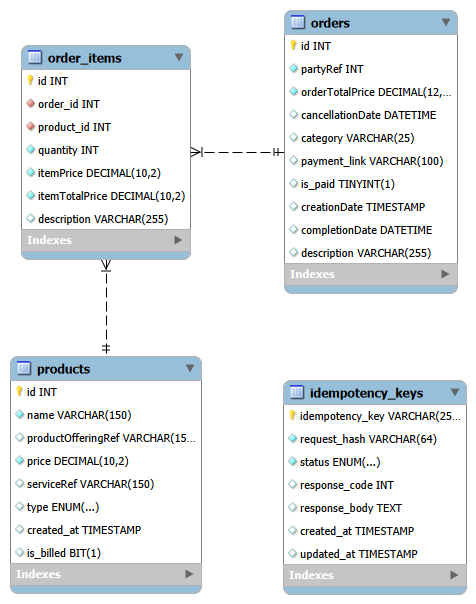
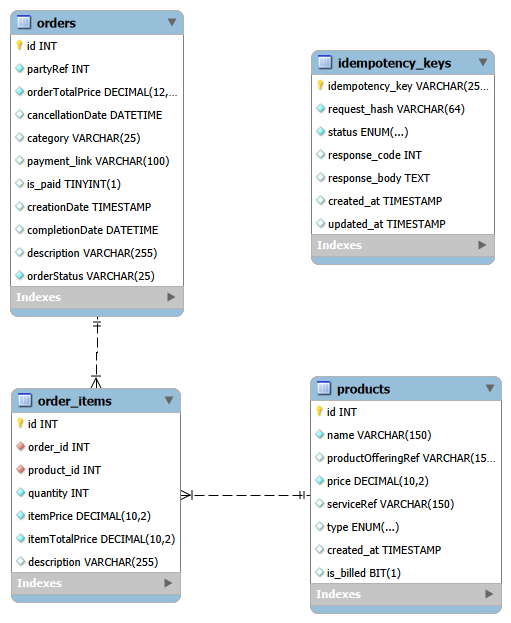
diagrammes readme etc

diff --git a/README.md b/README.md
@@ -7,6 +7,33 @@
 
 CanTelcoX est une architecture de microservices conçue pour un opérateur mobile canadien, implémentant un système complet de gestion des clients, des commandes, de la facturation et des services mobiles. Le système suit les principes de l'architecture hexagonale et utilise des technologies modernes pour assurer la scalabilité, la résilience et l'observabilité.
 
+## Déploiement
+
+Chaque microservice possède son propre fichier `docker-compose.yml` pour le déploiement local. Le système est conçu pour être déployé dans un environnement Kubernetes en production.
+
+### Prérequis
+
+- Docker et Docker Compose
+- Python 3.9+
+- Accès à un registre Docker (pour les images personnalisées)
+
+### Démarrage Local
+
+1. Cloner le dépôt
+2. Cloner tous les autres dépôts à la racine de celui-ci, naviguer à la racine de ce projet et exécuter :
+   ```bash
+   /bin/sh ./get_projets.sh
+   ```
+3. Toujours à la racine de ce projet, exécutez :
+   ```bash
+   docker network create cantelcox-network
+   docker compose build
+   docker compose up -d
+   docker compose rm -f
+   ```
+
+4. Attendez que le service Keycloak ait terminé de s'initialiser au complet avant de pouvoir utiliser le système (autrement vous aurez des erreurs 500 sur les opérations qui nécessitent une authentification). Testable via Postman.
+
 ## Architecture Globale
 
 Le système est composé de 7 microservices principaux, chacun responsable d'un domaine métier spécifique :
@@ -249,31 +276,6 @@ Les bounded contexts identifiés sont :
 - **OAuth2** : Intégration avec Keycloak
 - **MFA** : Authentification multi-facteurs
 - **HTTPS** : Communication sécurisée
-
-## Déploiement
-
-Chaque microservice possède son propre fichier `docker-compose.yml` pour le déploiement local. Le système est conçu pour être déployé dans un environnement Kubernetes en production.
-
-### Prérequis
-
-- Docker et Docker Compose
-- Python 3.9+
-- Accès à un registre Docker (pour les images personnalisées)
-
-### Démarrage Local
-
-1. Cloner le dépôt
-2. Cloner tous les autres dépôts à la racine de celui-ci, naviguer à la racine de ce projet et exécuter :
-   ```bash
-   /bin/sh ./get_projets.sh
-   ```
-3. Toujours à la racine de ce projet, exécutez :
-   ```bash
-   docker network create cantelcox-network
-   docker compose build
-   docker compose up -d
-   docker compose rm -f
-   ```
 
 ## Architecture Hexagonale
 